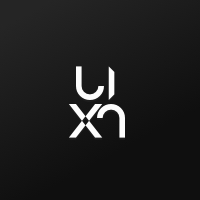
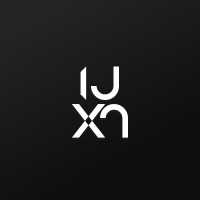
edit

Changed region(s): [[0.33, 0.33, 0.66, 0.69]]

diff --git a/src/components/ScreensaverCube.vue b/src/components/ScreensaverCube.vue
@@ -67,8 +67,8 @@ export default {
 .slide.x:after {
   content: "";
   background-image: url("../assets/Cube/cube6.jpg");
-  -webkit-transform: translateZ(100px) rotateZ(-90deg);
-  transform: translateZ(100px) rotateZ(-90deg);
+  -webkit-transform: translateZ(100px) rotateZ(90deg);
+  transform: translateZ(100px) rotateZ(90deg);
 }
 
 .slide.x:before {
